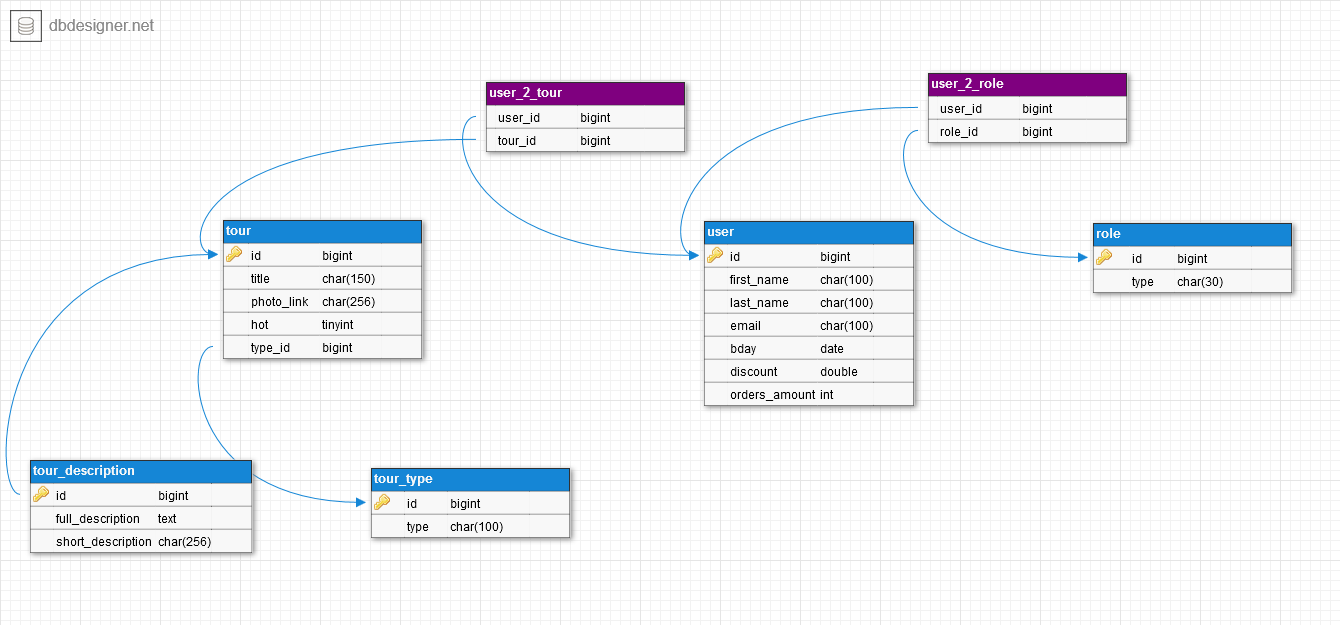
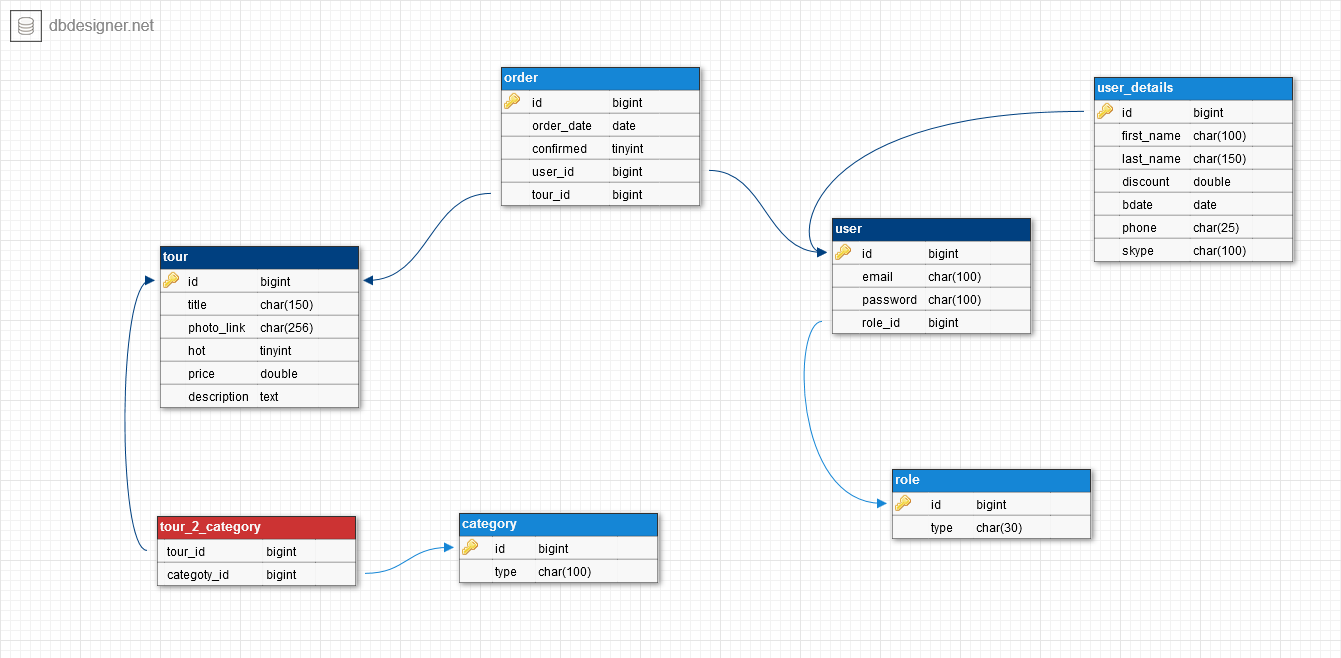
master: model changed

diff --git a/datamodel/src/main/java/com/github/karina_denisevich/travel_agency/datamodel/User.java b/datamodel/src/main/java/com/github/karina_denisevich/travel_agency/datamodel/User.java
@@ -1,31 +1,9 @@
 package com.github.karina_denisevich.travel_agency.datamodel;
 
-import java.util.Date;
+public class User extends AbstractModel {
 
-public class User extends AbstractModel{
-
-    private String firstName;
-    private String lastName;
     private String email;
-    private Date bDay;
-    private Double discount;
-    private Integer ordersAmount;
-
-    public String getFirstName() {
-        return firstName;
-    }
-
-    public void setFirstName(String firstName) {
-        this.firstName = firstName;
-    }
-
-    public String getLastName() {
-        return lastName;
-    }
-
-    public void setLastName(String lastName) {
-        this.lastName = lastName;
-    }
+    private String password;
 
     public String getEmail() {
         return email;
@@ -35,27 +13,11 @@ public class User extends AbstractModel{
         this.email = email;
     }
 
-    public Date getbDay() {
-        return bDay;
+    public String getPassword() {
+        return password;
     }
 
-    public void setbDay(Date bDay) {
-        this.bDay = bDay;
-    }
-
-    public Double getDiscount() {
-        return discount;
-    }
-
-    public void setDiscount(Double discount) {
-        this.discount = discount;
-    }
-
-    public Integer getOrdersAmount() {
-        return ordersAmount;
-    }
-
-    public void setOrdersAmount(Integer ordersAmount) {
-        this.ordersAmount = ordersAmount;
+    public void setPassword(String password) {
+        this.password = password;
     }
 }

diff --git a/datamodel/src/main/java/com/github/karina_denisevich/travel_agency/datamodel/Tour.java b/datamodel/src/main/java/com/github/karina_denisevich/travel_agency/datamodel/Tour.java
@@ -4,7 +4,9 @@ public class Tour extends AbstractModel {
 
     private String title;
     private String photoLink;
-    private boolean isHot;
+    private Boolean isHot;
+    private Double price;
+    private String description;
 
 
     public String getTitle() {
@@ -23,11 +25,27 @@ public class Tour extends AbstractModel {
         this.photoLink = photoLink;
     }
 
-    public boolean isHot() {
+    public Boolean getIsHot() {
         return isHot;
     }
 
-    public void setHot(boolean hot) {
+    public void setIsHot(Boolean hot) {
         isHot = hot;
+    }
+
+    public Double getPrice() {
+        return price;
+    }
+
+    public void setPrice(Double price) {
+        this.price = price;
+    }
+
+    public String getDescription() {
+        return description;
+    }
+
+    public void setDescription(String description) {
+        this.description = description;
     }
 }

diff --git a/datamodel/src/main/java/com/github/karina_denisevich/travel_agency/datamodel/Category.java b/datamodel/src/main/java/com/github/karina_denisevich/travel_agency/datamodel/Category.java
@@ -1,24 +1,24 @@
 package com.github.karina_denisevich.travel_agency.datamodel;
 
-public class TourType extends AbstractModel {
+public class Category extends AbstractModel {
 
-    private enum TypeEnum{
+    private enum CategoryEnum {
         ESCOURTED_TOUR,
         RAIL_TOUR,
         BUS_TOUR,
         SHOP_TOUR,
         SAFARI_TOUR,
         BEACH_TOUR,
-        OTHER_TOUR;
+        OTHER_TOUR
     }
 
-    private TypeEnum type;
+    private Category type;
 
-    public TypeEnum getType() {
+    public Category getCategory() {
         return type;
     }
 
-    public void setType(TypeEnum type) {
+    public void setCategory(Category type) {
         this.type = type;
     }
 }
